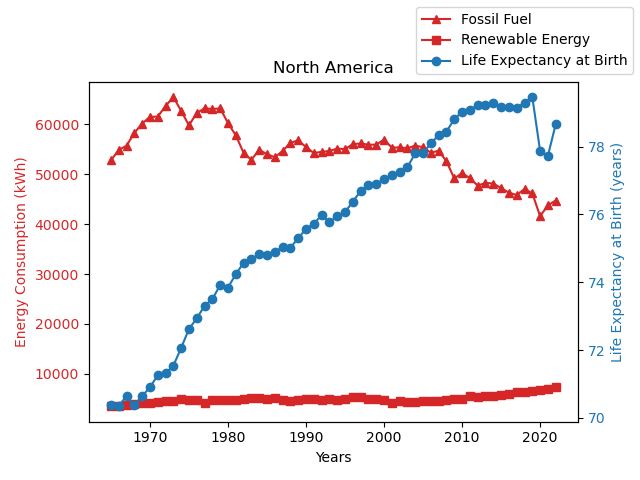
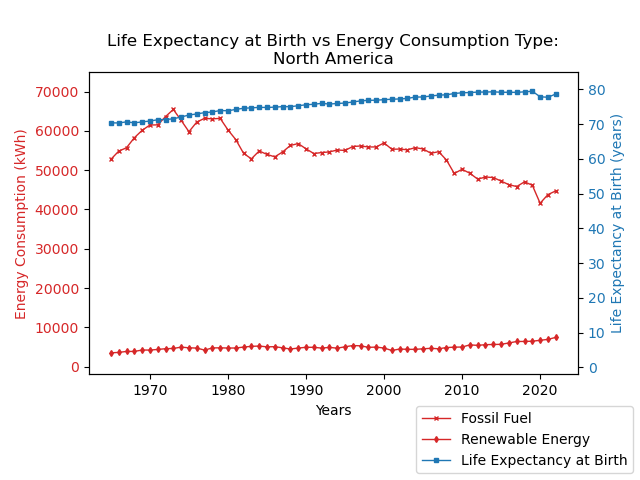
A4: fx/for-loop, graph formatting

diff --git a/analysis_4_readme.md b/analysis_4_readme.md
@@ -25,6 +25,7 @@ Resources:
     - legend for two axes:  https://stackoverflow.com/questions/5484922/secondary-axis-with-twinx-how-to-add-to-legend
     - Matplotlib list of marker shapes:  https://matplotlib.org/stable/api/markers_api.html#module-matplotlib.markers
     - savefig cutting off title at the top:  https://stackoverflow.com/questions/35992492/savefig-cuts-off-title
+    - legend location codes: https://www.geeksforgeeks.org/change-the-legend-position-in-matplotlib/
     - ...
 - Some articles we looked at for inspiration:
     - https://www.climatecouncil.org.au/11-countries-leading-the-charge-on-renewable-energy/
